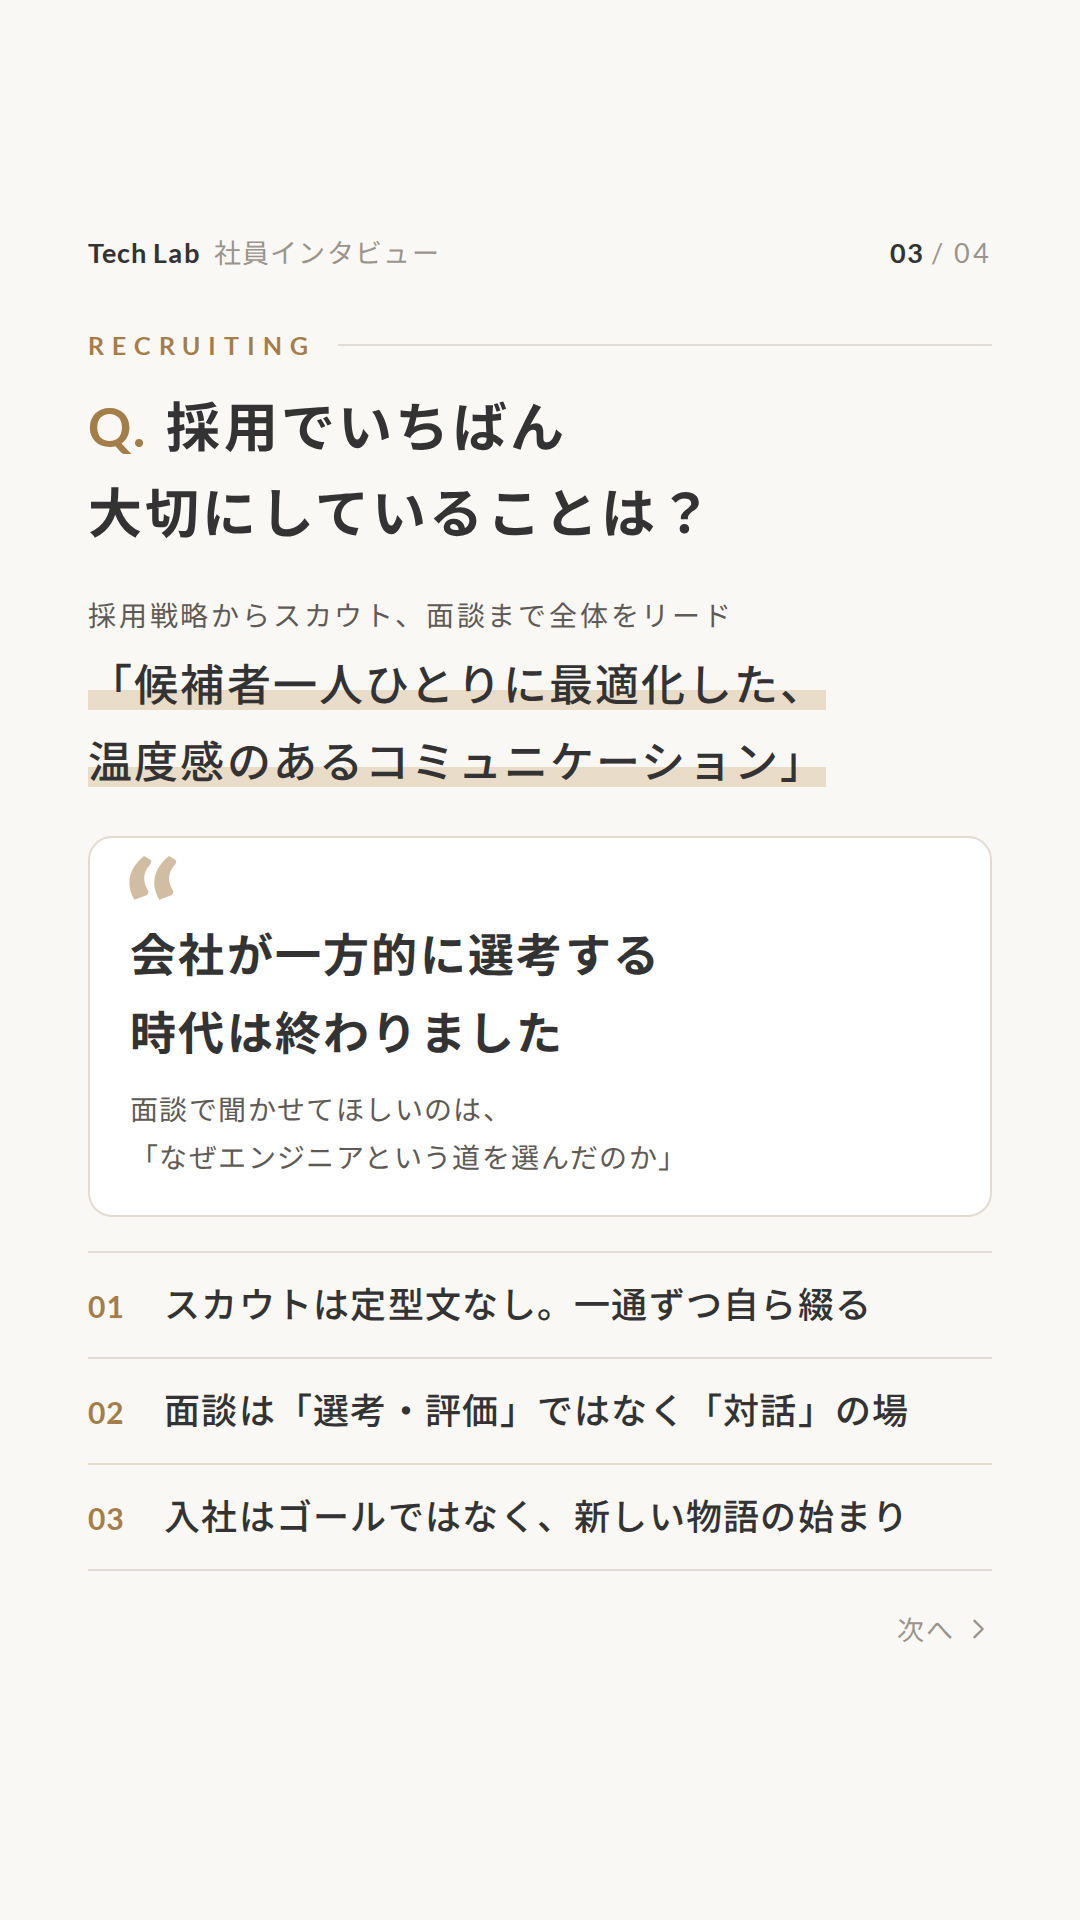
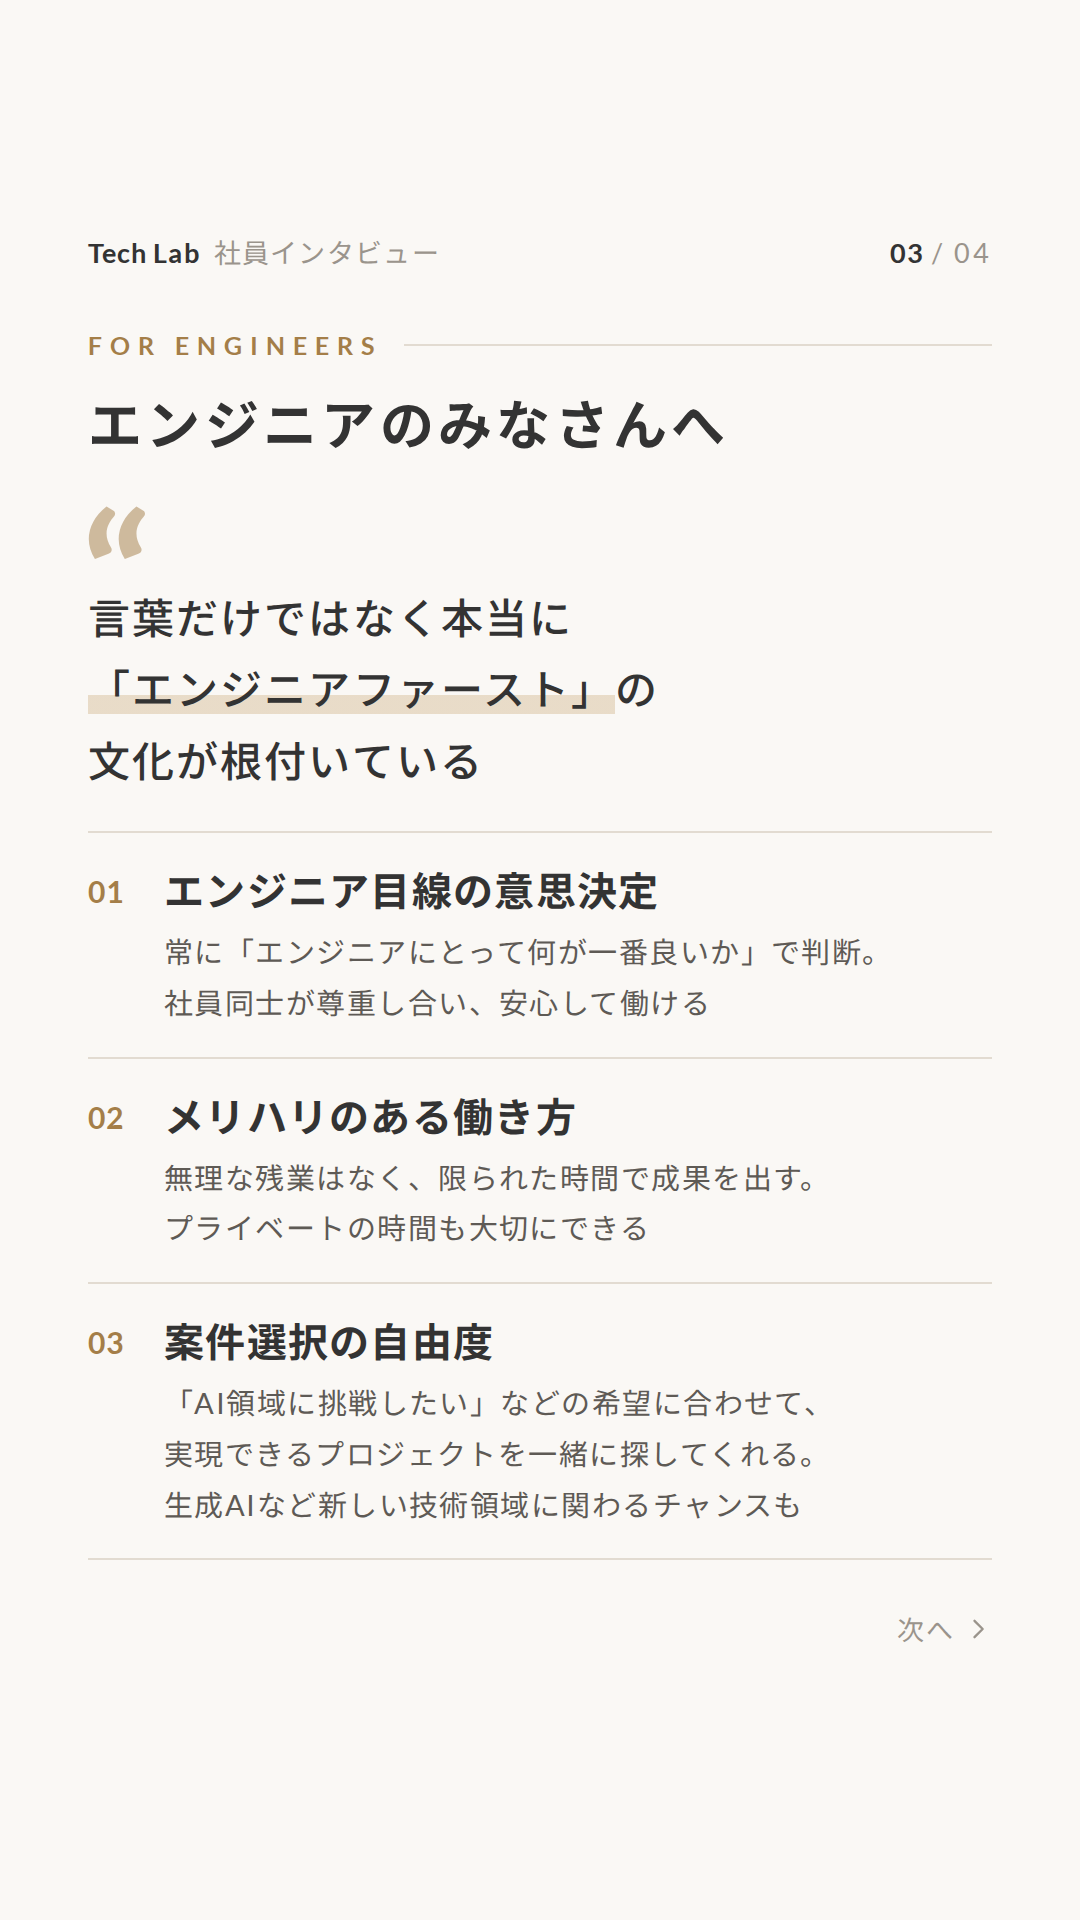
Swap the recruiting frame for a second frame addressed to engineers
Frame 3 covers the engineer-first culture, working hours and project
choice; frame 4 covers who she wants to hire, the interview, and the
Green search CTA.

Claude-Session: https://claude.ai/code/session_01CUXoqmcGhs8CVRoNcj9TNQ

diff --git a/insta-story/techlab-interview/story.html b/insta-story/techlab-interview/story.html
@@ -77,15 +77,11 @@
     width: 116px; height: 116px; border-radius: 50%; flex: none;
     background-size: 500px auto; background-position: -207px -62px;
   }
-  .points { list-style: none; border-top: 2px solid var(--line); counter-reset: p; }
-  .points li {
-    counter-increment: p;
-    display: grid; grid-template-columns: 76px 1fr; align-items: baseline;
-    padding: 24px 0; border-bottom: 2px solid var(--line);
-    font-size: 36px; font-weight: 500; line-height: 1.55;
-  }
-  .points li::before { content: "0" counter(p); font-family: "Lato", sans-serif; font-weight: 700; font-size: 30px; color: var(--oak); }
-  .points li small { display: block; font-size: 28px; font-weight: 400; color: var(--ink-2); line-height: 1.6; margin-top: 4px; letter-spacing: .05em; }
+  .perks { list-style: none; margin-top: 34px; border-top: 2px solid var(--line); counter-reset: p; }
+  .perks li { counter-increment: p; display: grid; grid-template-columns: 76px 1fr; padding: 28px 0; border-bottom: 2px solid var(--line); }
+  .perks li::before { content: "0" counter(p); font-family: "Lato", sans-serif; font-weight: 700; font-size: 30px; line-height: 60px; color: var(--oak); }
+  .perks b { display: block; font-size: 40px; font-weight: 700; line-height: 1.5; }
+  .perks p { font-size: 29px; color: var(--ink-2); line-height: 1.75; margin-top: 6px; letter-spacing: .05em; }
 
   /* ---------- 01 cover ---------- */
   .cover-photo { height: 720px; background-size: cover; background-position: 60% 30%; }
@@ -115,23 +111,16 @@
   .said { display: flex; align-items: center; gap: 30px; margin-top: 40px; }
   .said p { font-size: 40px; font-weight: 700; line-height: 1.6; letter-spacing: .05em; }
 
-  /* ---------- 03 recruiting ---------- */
-  .answer { font-size: 44px; font-weight: 500; line-height: 1.75; margin-top: 34px; letter-spacing: .05em; }
-  .answer small { display: block; font-size: 28px; font-weight: 400; color: var(--ink-2); letter-spacing: .1em; margin-bottom: 6px; }
-  .voice { margin-top: 36px; background: var(--card); border: 2px solid var(--line); border-radius: 24px; padding: 26px 40px 34px; }
-  .voice .quote { margin-top: 0; padding-top: 52px; }
-  .voice .quote::before { font-size: 150px; top: -24px; }
-  .voice .quote p { font-size: 46px; font-weight: 700; }
-  .voice .cap { font-size: 28px; color: var(--ink-2); line-height: 1.7; margin-top: 14px; letter-spacing: .05em; }
-  .frame .points.after-voice { margin-top: 34px; }
-
-  /* ---------- 04 message + CTA ---------- */
+  /* ---------- 03 / 04 for engineers ---------- */
   .msg-head { font-size: 54px; font-weight: 700; letter-spacing: .08em; line-height: 1.5; margin-top: 24px; }
-  .frame .points.msg { margin-top: 30px; }
-  .want { margin-top: 30px; background: var(--greige); border-radius: 24px; padding: 28px 40px 32px; }
-  .want .k { font-size: 26px; color: var(--oak); letter-spacing: .12em; }
-  .want p { font-size: 34px; font-weight: 500; line-height: 1.65; margin-top: 8px; }
-  .casual { font-size: 34px; font-weight: 500; margin-top: 40px; letter-spacing: .05em; }
+  .frame .msg-quote { margin-top: 56px; }
+  .msg-quote p { font-size: 42px; }
+  .want-lead { font-size: 28px; color: var(--ink-2); margin-top: 34px; letter-spacing: .1em; }
+  .want-big { font-size: 44px; font-weight: 700; line-height: 1.7; margin-top: 10px; letter-spacing: .04em; }
+  .want-sub { font-size: 30px; color: var(--ink-2); line-height: 1.8; margin-top: 22px; letter-spacing: .05em; }
+  .said.small p { font-size: 31px; font-weight: 500; line-height: 1.7; }
+  .cta { margin-top: 40px; padding-top: 34px; border-top: 2px solid var(--line); display: flex; flex-direction: column; }
+  .casual { font-size: 34px; font-weight: 500; letter-spacing: .05em; }
   .where { font-size: 27px; color: var(--ink-2); margin-top: 16px; }
   .search {
     margin-top: 16px;
@@ -191,58 +180,54 @@
   <div class="next">次へ<svg viewBox="0 0 24 24" fill="none" stroke="currentColor" stroke-width="2" stroke-linecap="round" stroke-linejoin="round"><path d="M9 5l7 7-7 7"/></svg></div>
 </section>
 
-<!-- 03 how she recruits -->
+<!-- 03 for engineers: what it is like -->
 <section class="frame">
   <div class="top"><div><b>Tech Lab</b>社員インタビュー</div><div class="count"><b>03</b> / 04</div></div>
 
-  <div class="label">RECRUITING</div>
-  <h2 class="q"><span>Q.</span>採用でいちばん<br>大切にしていることは？</h2>
+  <div class="label">FOR ENGINEERS</div>
+  <h2 class="msg-head">エンジニアのみなさんへ</h2>
 
-  <p class="answer"><small>採用戦略からスカウト、面談まで全体をリード</small><span class="hl">「候補者一人ひとりに最適化した、<br>温度感のあるコミュニケーション」</span></p>
-
-  <div class="voice">
-    <div class="quote"><p>会社が一方的に選考する<br>時代は終わりました</p></div>
-    <p class="cap">面談で聞かせてほしいのは、<br>「なぜエンジニアという道を選んだのか」</p>
+  <div class="quote msg-quote">
+    <p>言葉だけではなく本当に<br><span class="hl">「エンジニアファースト」</span>の<br>文化が根付いている</p>
   </div>
 
-  <ol class="points after-voice">
-    <li>スカウトは定型文なし。一通ずつ自ら綴る</li>
-    <li>面談は「選考・評価」ではなく「対話」の場</li>
-    <li>入社はゴールではなく、新しい物語の始まり</li>
+  <ol class="perks">
+    <li><div><b>エンジニア目線の意思決定</b><p>常に「エンジニアにとって何が一番良いか」で判断。<br>社員同士が尊重し合い、安心して働ける</p></div></li>
+    <li><div><b>メリハリのある働き方</b><p>無理な残業はなく、限られた時間で成果を出す。<br>プライベートの時間も大切にできる</p></div></li>
+    <li><div><b>案件選択の自由度</b><p>「AI領域に挑戦したい」などの希望に合わせて、<br>実現できるプロジェクトを一緒に探してくれる。<br>生成AIなど新しい技術領域に関わるチャンスも</p></div></li>
   </ol>
 
   <div class="next">次へ<svg viewBox="0 0 24 24" fill="none" stroke="currentColor" stroke-width="2" stroke-linecap="round" stroke-linejoin="round"><path d="M9 5l7 7-7 7"/></svg></div>
 </section>
 
-<!-- 04 message + CTA -->
+<!-- 04 for engineers: who we want + CTA -->
 <section class="frame">
   <div class="top"><div><b>Tech Lab</b>社員インタビュー</div><div class="count"><b>04</b> / 04</div></div>
 
-  <div class="label">MESSAGE</div>
-  <h2 class="msg-head">エンジニアのみなさんへ</h2>
+  <div class="label">FOR ENGINEERS</div>
+  <h2 class="msg-head">こんな方と働きたい</h2>
 
-  <ol class="points msg">
-    <li><div>本当の「エンジニアファースト」<small>「エンジニアにとって何が一番良いか」で意思決定</small></div></li>
-    <li><div>メリハリのある働き方<small>無理な残業はなく、プライベートも大切にできる</small></div></li>
-    <li><div>案件選択の自由度<small>キャリアに合わせて選べる。生成AIなど新しい領域も</small></div></li>
-  </ol>
+  <p class="want-lead">スキルセット以上に大切にしているのは</p>
+  <p class="want-big"><span class="hl">自分なりの目的意識を持って、<br>エンジニアという仕事に向き合っているか</span></p>
+  <p class="want-sub">「将来どんなエンジニアになりたいか」<br>「どの技術領域を究めたいのか」<br>主体的に動ける方にとって、Tech Lab は<br>「最高のプラットフォーム」になれる。</p>
 
-  <div class="want">
-    <div class="k">こんな方と働きたい</div>
-    <p>自分なりの目的意識を持って、<br>エンジニアという仕事に向き合っている方</p>
+  <div class="said small">
+    <div class="photo avatar"></div>
+    <p>「面談では、ぜひ『なぜエンジニアという道を<br>選んだのか』という背景をお聞かせください」</p>
   </div>
 
-  <p class="casual">「まずはカジュアルにお話しできれば嬉しいです」</p>
-  <p class="where">インタビュー全文と求人は、転職サイト Green で</p>
-  <div class="search">
-    <svg viewBox="0 0 24 24" fill="none" stroke="#A47E48" stroke-width="2.4" stroke-linecap="round"><circle cx="10.5" cy="10.5" r="6.5"/><path d="M15.5 15.5L21 21"/></svg>
-    Tech Lab
-    <span>検索</span>
-  </div>
-
-  <div class="link-hint">
-    <svg viewBox="0 0 24 24" fill="none" stroke="currentColor" stroke-width="2.2" stroke-linecap="round" stroke-linejoin="round"><path d="M12 4v16M5 13l7 7 7-7"/></svg>
-    求人はリンクからチェック
+  <div class="cta">
+    <p class="casual">「まずはカジュアルにお話しできれば嬉しいです」</p>
+    <p class="where">インタビュー全文と求人は、転職サイト Green で</p>
+    <div class="search">
+      <svg viewBox="0 0 24 24" fill="none" stroke="#A47E48" stroke-width="2.4" stroke-linecap="round"><circle cx="10.5" cy="10.5" r="6.5"/><path d="M15.5 15.5L21 21"/></svg>
+      Tech Lab
+      <span>検索</span>
+    </div>
+    <div class="link-hint">
+      <svg viewBox="0 0 24 24" fill="none" stroke="currentColor" stroke-width="2.2" stroke-linecap="round" stroke-linejoin="round"><path d="M12 4v16M5 13l7 7 7-7"/></svg>
+      求人はリンクからチェック
+    </div>
   </div>
 </section>
 

diff --git a/insta-story/README.md b/insta-story/README.md
@@ -4,7 +4,7 @@
 
 | フォルダ | 内容 |
 | --- | --- |
-| `techlab-interview/` | 株式会社Tech Lab 社員インタビュー（採用統括部長 篠原 里菜さん）。`01.png`〜`04.png` の4枚（表紙／入社理由／採用で大切にしていること／エンジニアへのメッセージ）。元記事は [Green](https://www.green-japan.com/company/11060/interview) |
+| `techlab-interview/` | 株式会社Tech Lab 社員インタビュー（採用統括部長 篠原 里菜さん）。`01.png`〜`04.png` の4枚（表紙／入社理由／エンジニアのみなさんへ／こんな方と働きたい）。元記事は [Green](https://www.green-japan.com/company/11060/interview) |
 
 上から約250px（アカウント名などが重なる）と下から約330px（返信欄が重なる）には文字を置いていません。4枚目の「↓ 求人はリンクから」の下に、Instagram のリンクスタンプを置いてください。
 
@@ -19,7 +19,7 @@ npm run story -- insta-story/techlab-interview/story.html
 
 文字が返信欄の位置まではみ出すと、ビルドはエラーで止まります。
 
-写真は `photo.jpg`（Green のインタビュー記事の写真）を、1枚目と2枚目（丸いアイコン）で切り抜き位置を変えて使っています。差し替えるときは同じ名前で上書きして作り直してください。
+写真は `photo.jpg`（Green のインタビュー記事の写真）を、1枚目と、2・4枚目の丸いアイコンで切り抜き位置を変えて使っています。差し替えるときは同じ名前で上書きして作り直してください。
 
 デザインは Green の記事ページに合わせています（生成りの背景、チャコールの文字、写真のテーブルから取った木目色のアクセント、字間を広めにとった細めの書体）。
 
